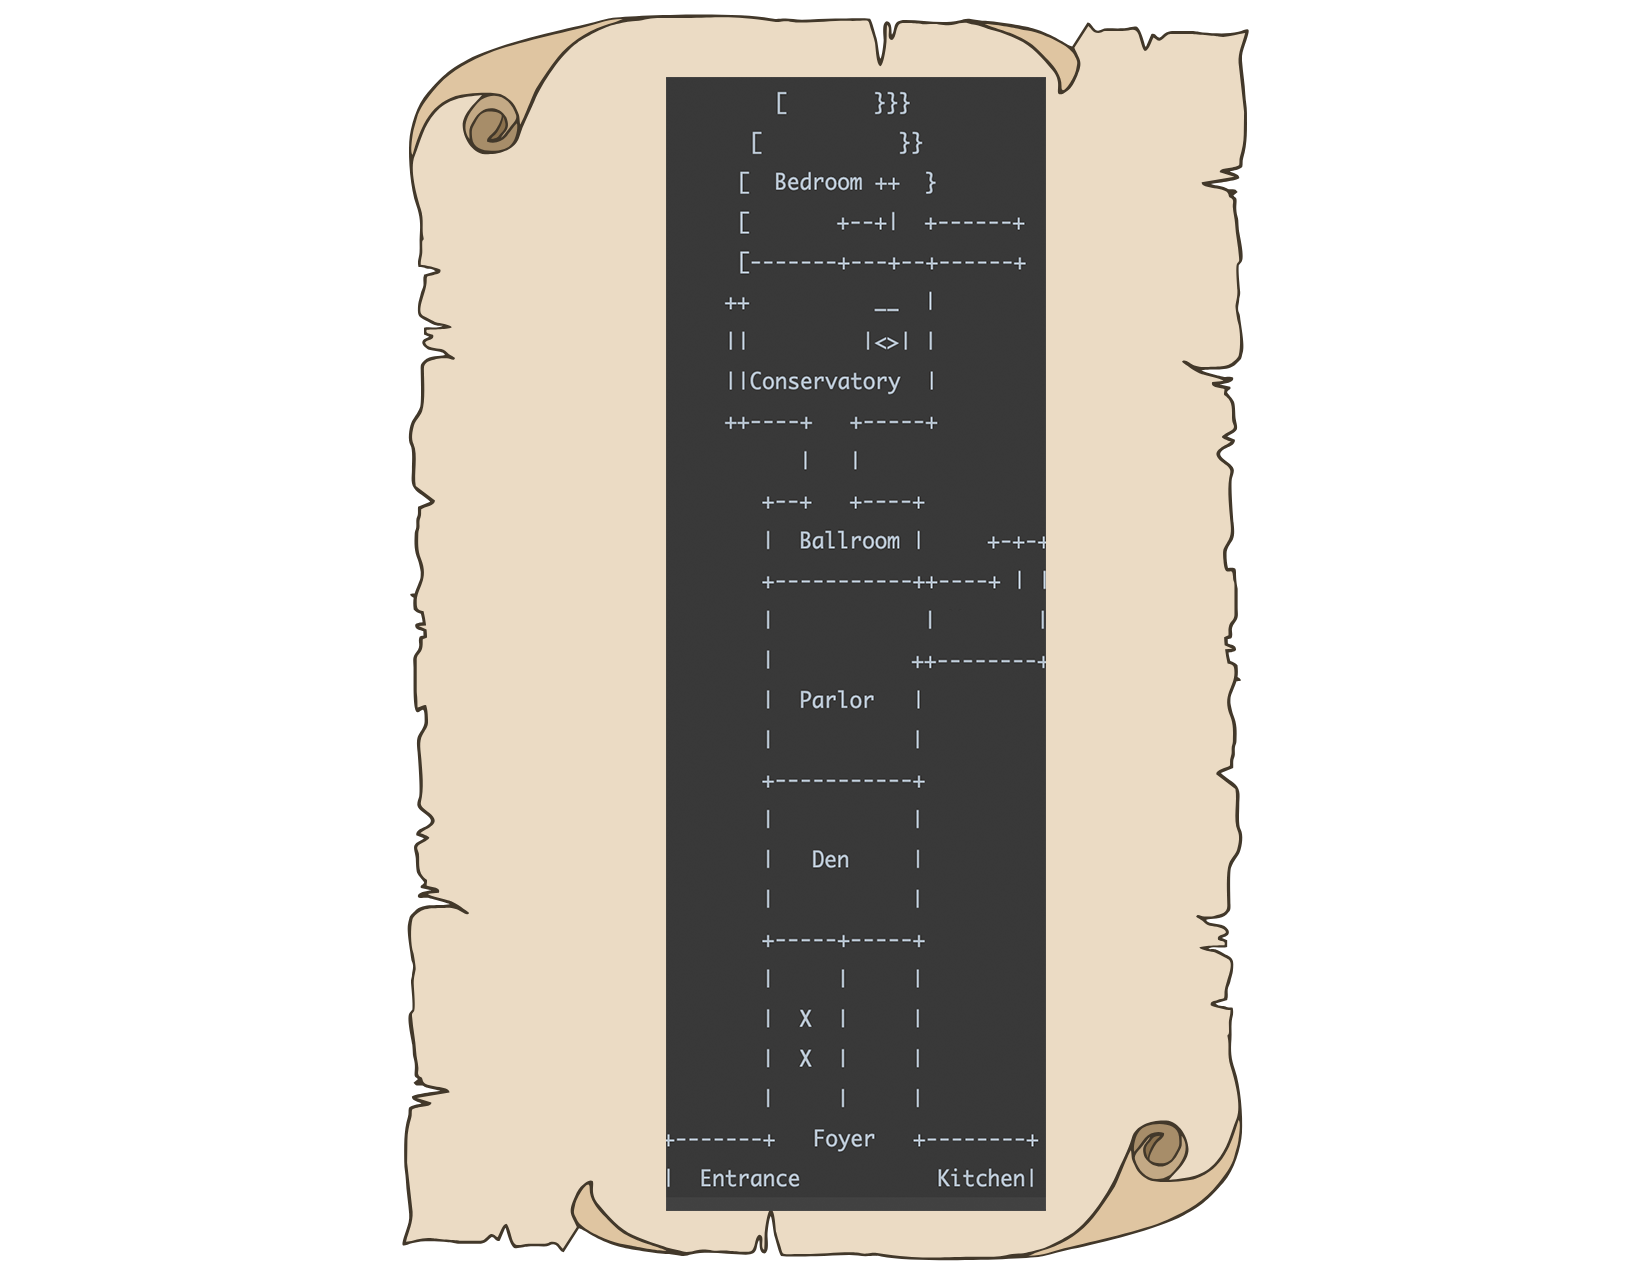
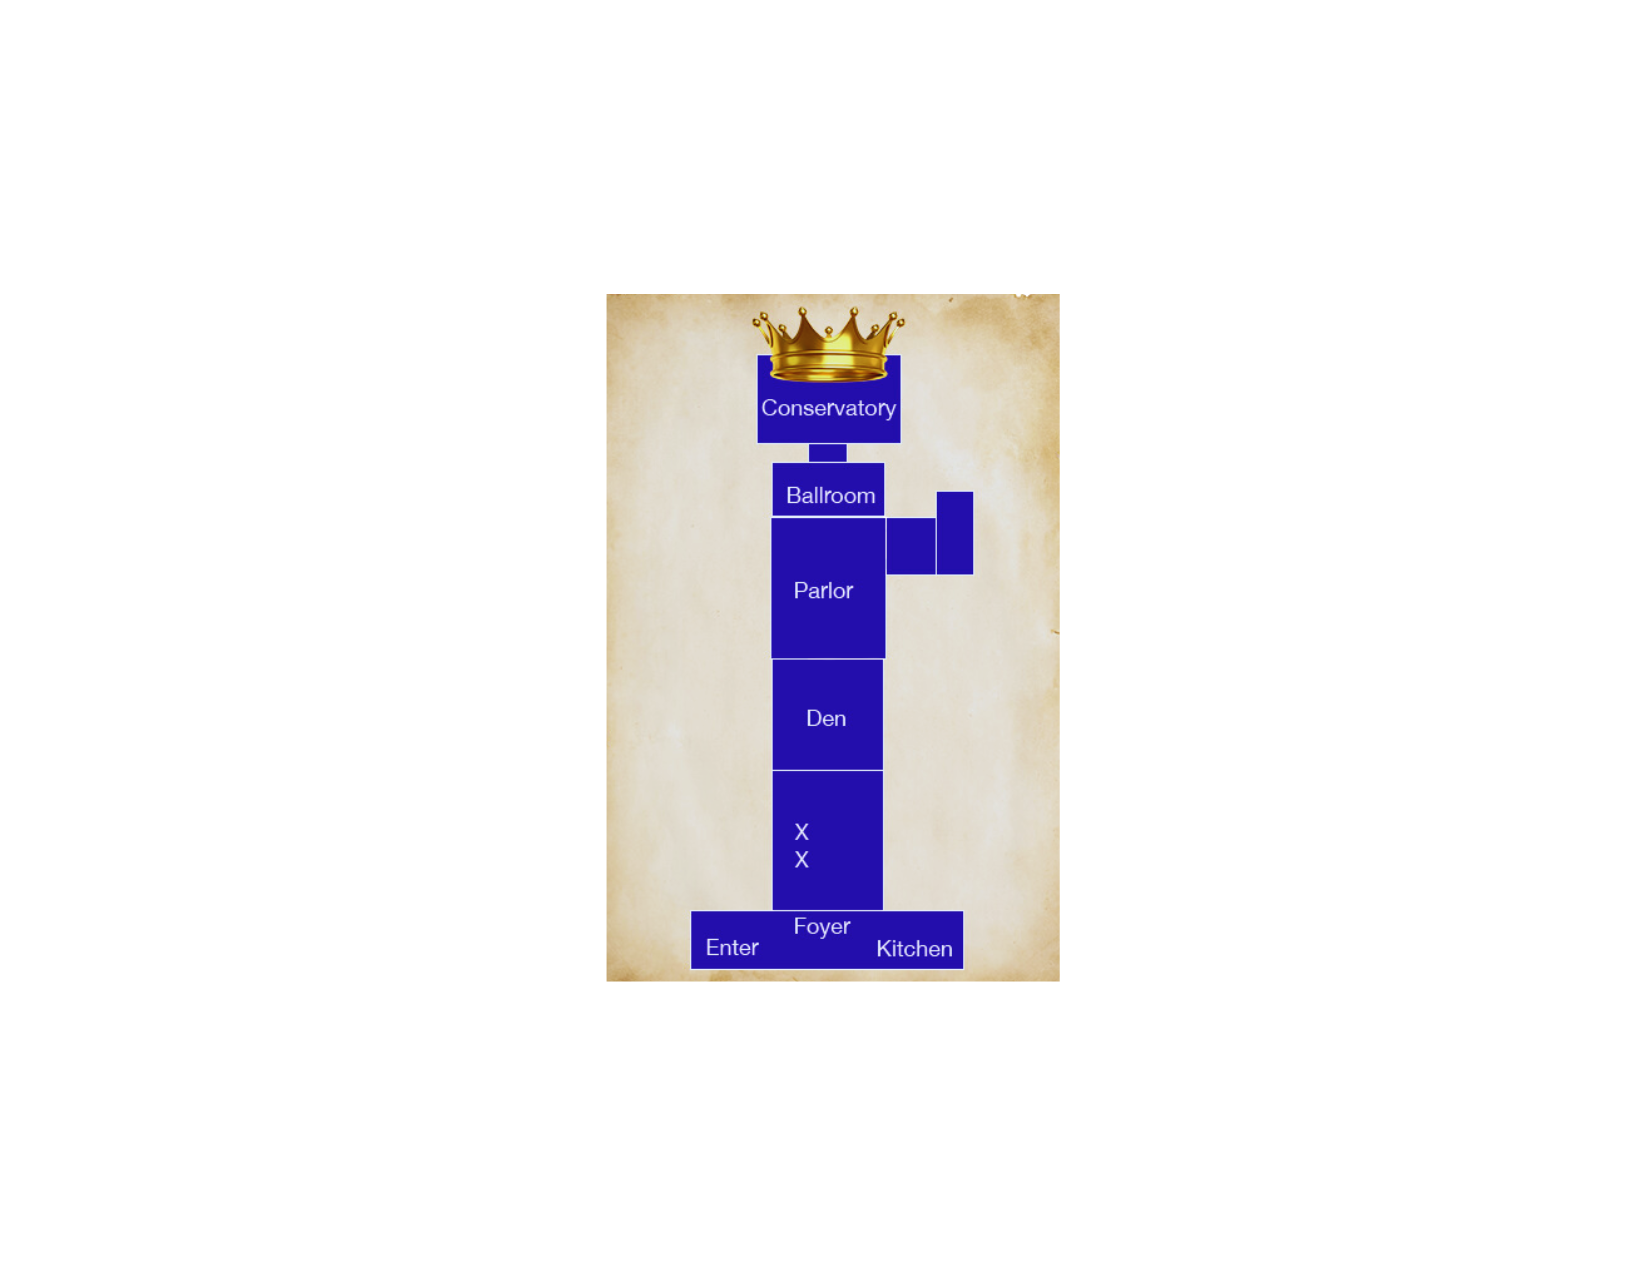
map upload w/graphic, AB#564

diff --git a/src/main/java/com/tlg/view/GuiBuild.java b/src/main/java/com/tlg/view/GuiBuild.java
@@ -30,7 +30,7 @@ public class GuiBuild {
     private JTextField userInputTextField, inventoryTextField, locationTextField;
     private JTextArea instructionTextArea, introductionTextArea, mapTextArea, gameTextArea;
     private Container con;
-    private JLabel titleNameLabel, locationLabel;
+    private JLabel titleNameLabel, locationLabel, mapLabel;
     private JLabel graphicLabel;
     private static JLabel gameTextLabel;
     private JLabel inventoryLabel;
@@ -194,16 +194,17 @@ public class GuiBuild {
         int navPanelWidth = 300; // Adjust this value as desired
         navPanel.setPreferredSize(new Dimension(navPanelWidth, navPanel.getPreferredSize().height));
 
-        // Map Text area
-        mapTextArea = new JTextArea("Map goes here");
-        mapTextArea.setBackground(new Color(78,205,196));
-        mapTextArea.setForeground(Color.BLACK);
-        navPanel.add(mapTextArea, BorderLayout.CENTER);
-        String filePath = "/Ascii_art/fullmap.txt";
-        readFileIntoJTextArea(filePath, mapTextArea);
 
-        int mapTextAreaHeight = 300;
-        mapTextArea.setPreferredSize(new Dimension(mapTextArea.getPreferredSize().width, mapTextAreaHeight));
+        // Map Image
+        String imgResourcePath = "/Images/map.png";
+        ImageIcon mapImageIcon = new ImageIcon(getClass().getResource(imgResourcePath));
+
+        // Map Label
+        mapLabel = new JLabel(imgResourcePath, mapImageIcon, JLabel.CENTER);
+        mapLabel.setBackground(new Color(78, 205, 196));
+        mapLabel.setForeground(Color.BLACK);
+        mapLabel.setPreferredSize(new Dimension(mapLabel.getPreferredSize().width, 300));
+        navPanel.add(mapLabel, BorderLayout.NORTH);
 
         // Create a new panel with BorderLayout
         inventoryHelpPanel = new JPanel(new BorderLayout());
@@ -483,6 +484,7 @@ public class GuiBuild {
 
         // Sub Panel for musicButtonPanel inside navPanel
         navPanel.add(musicButtonPanel, BorderLayout.NORTH);
+        navPanel.add(mapLabel, BorderLayout.CENTER);
 
         // Add panels to the container using BorderLayout
         con.add(locationPanel, BorderLayout.NORTH);
